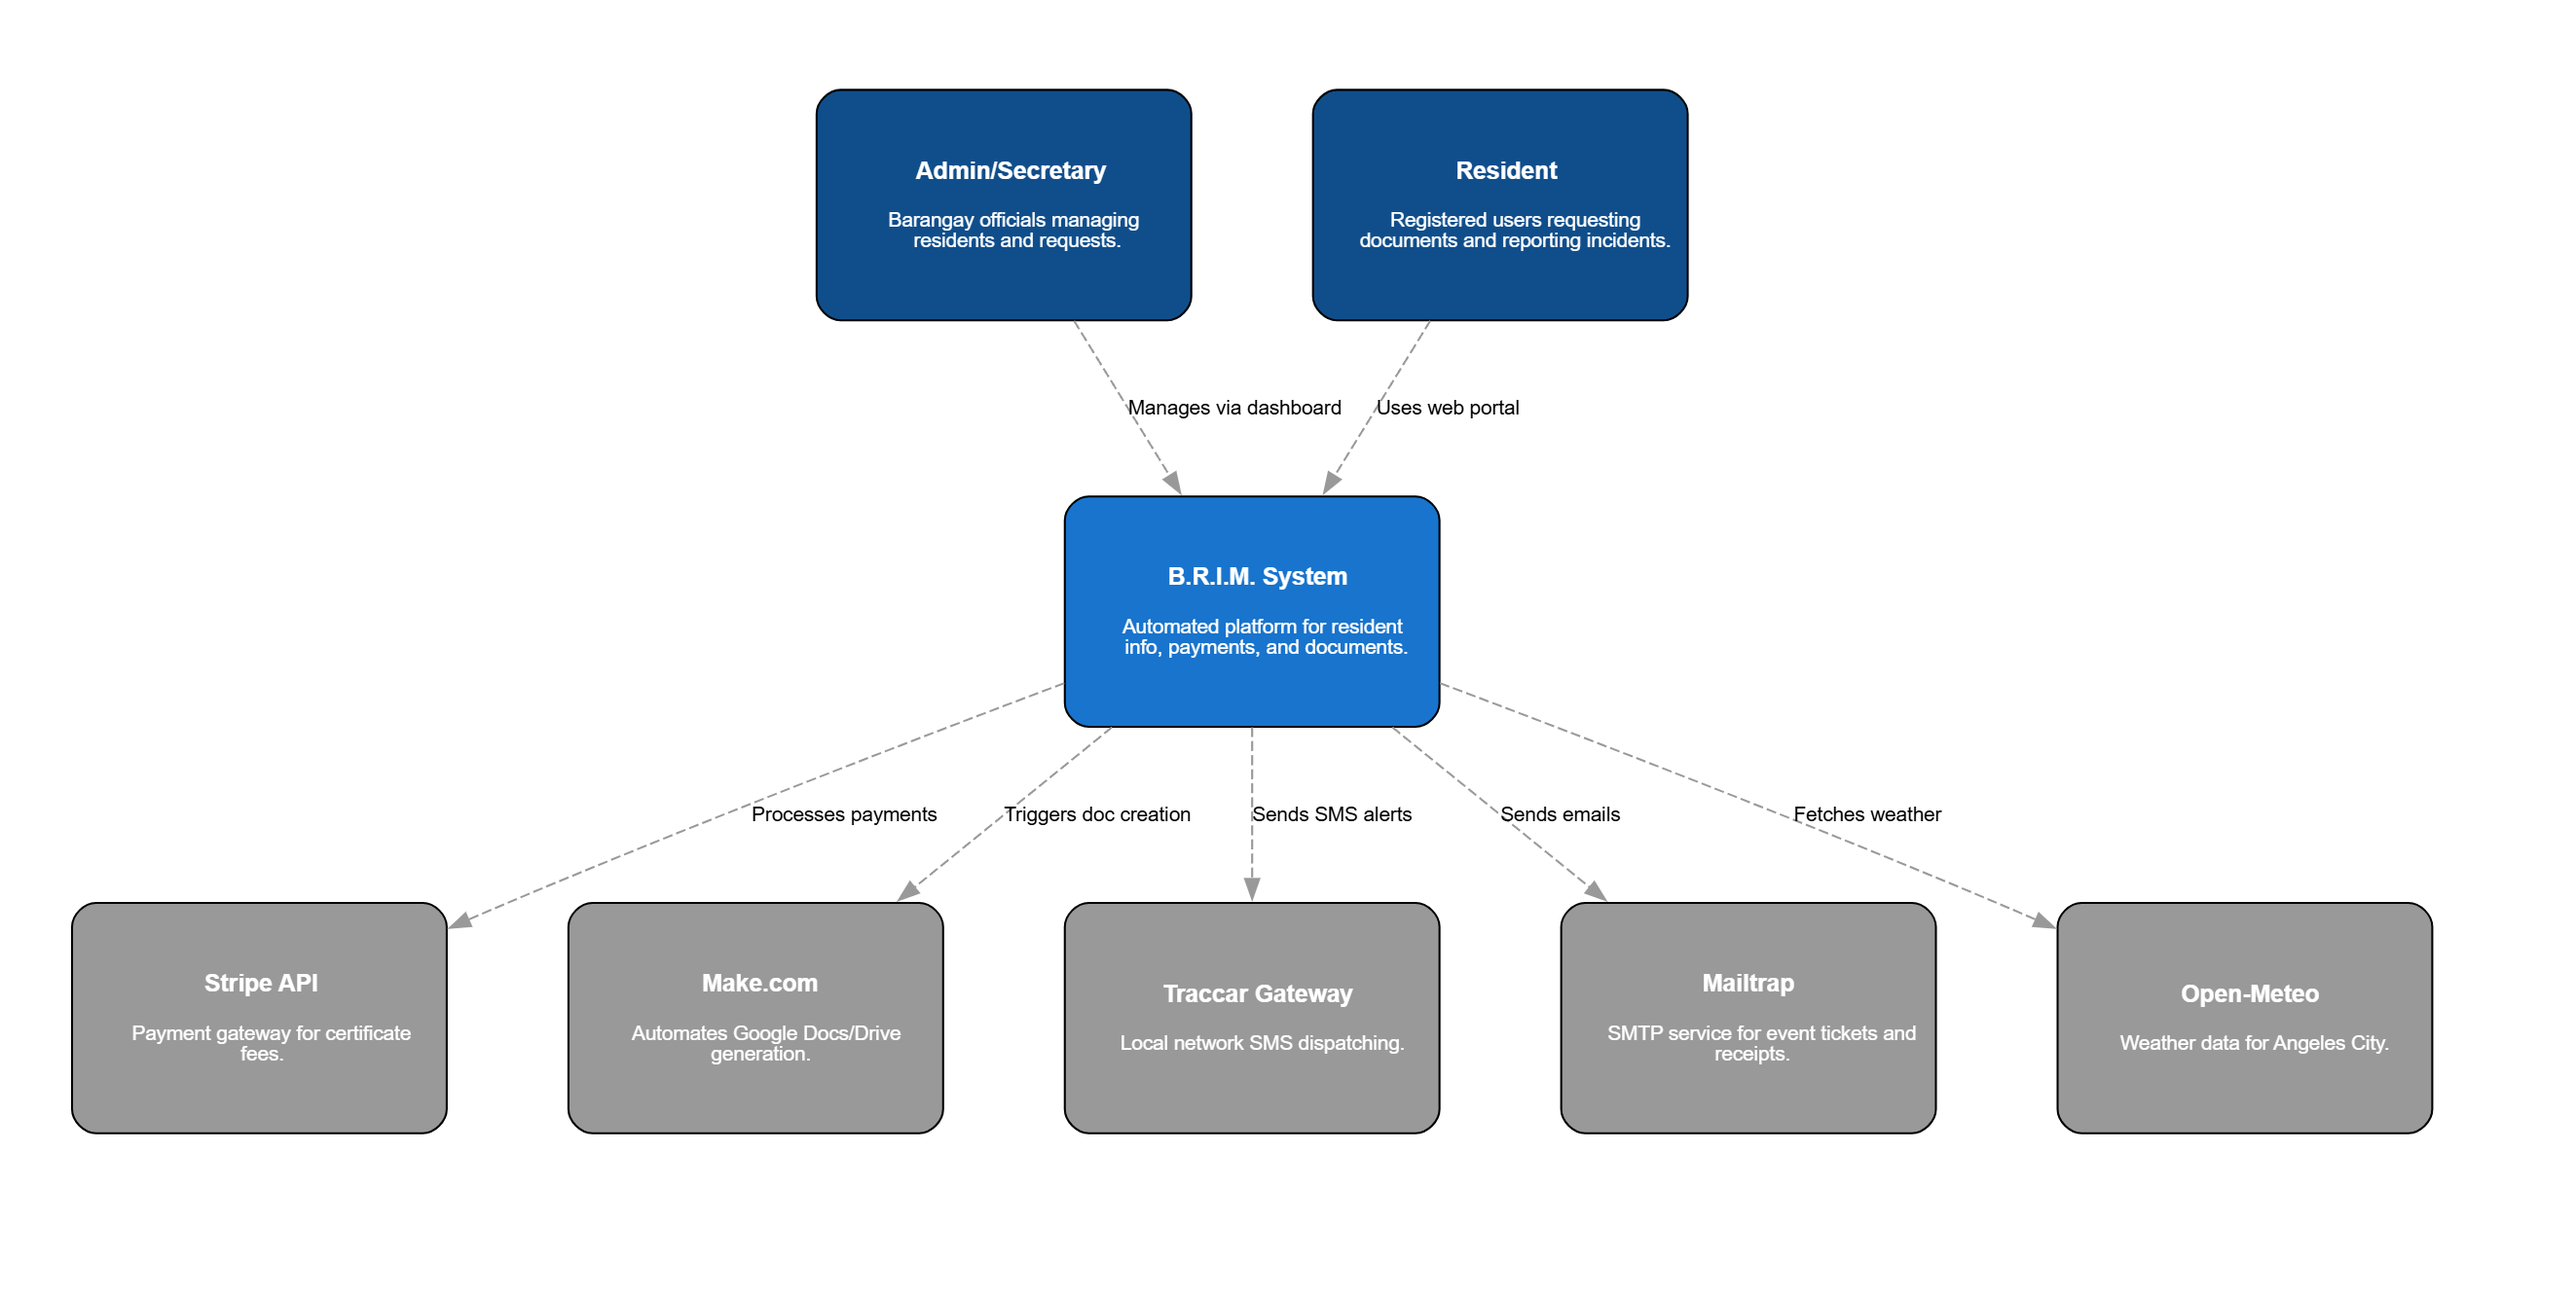
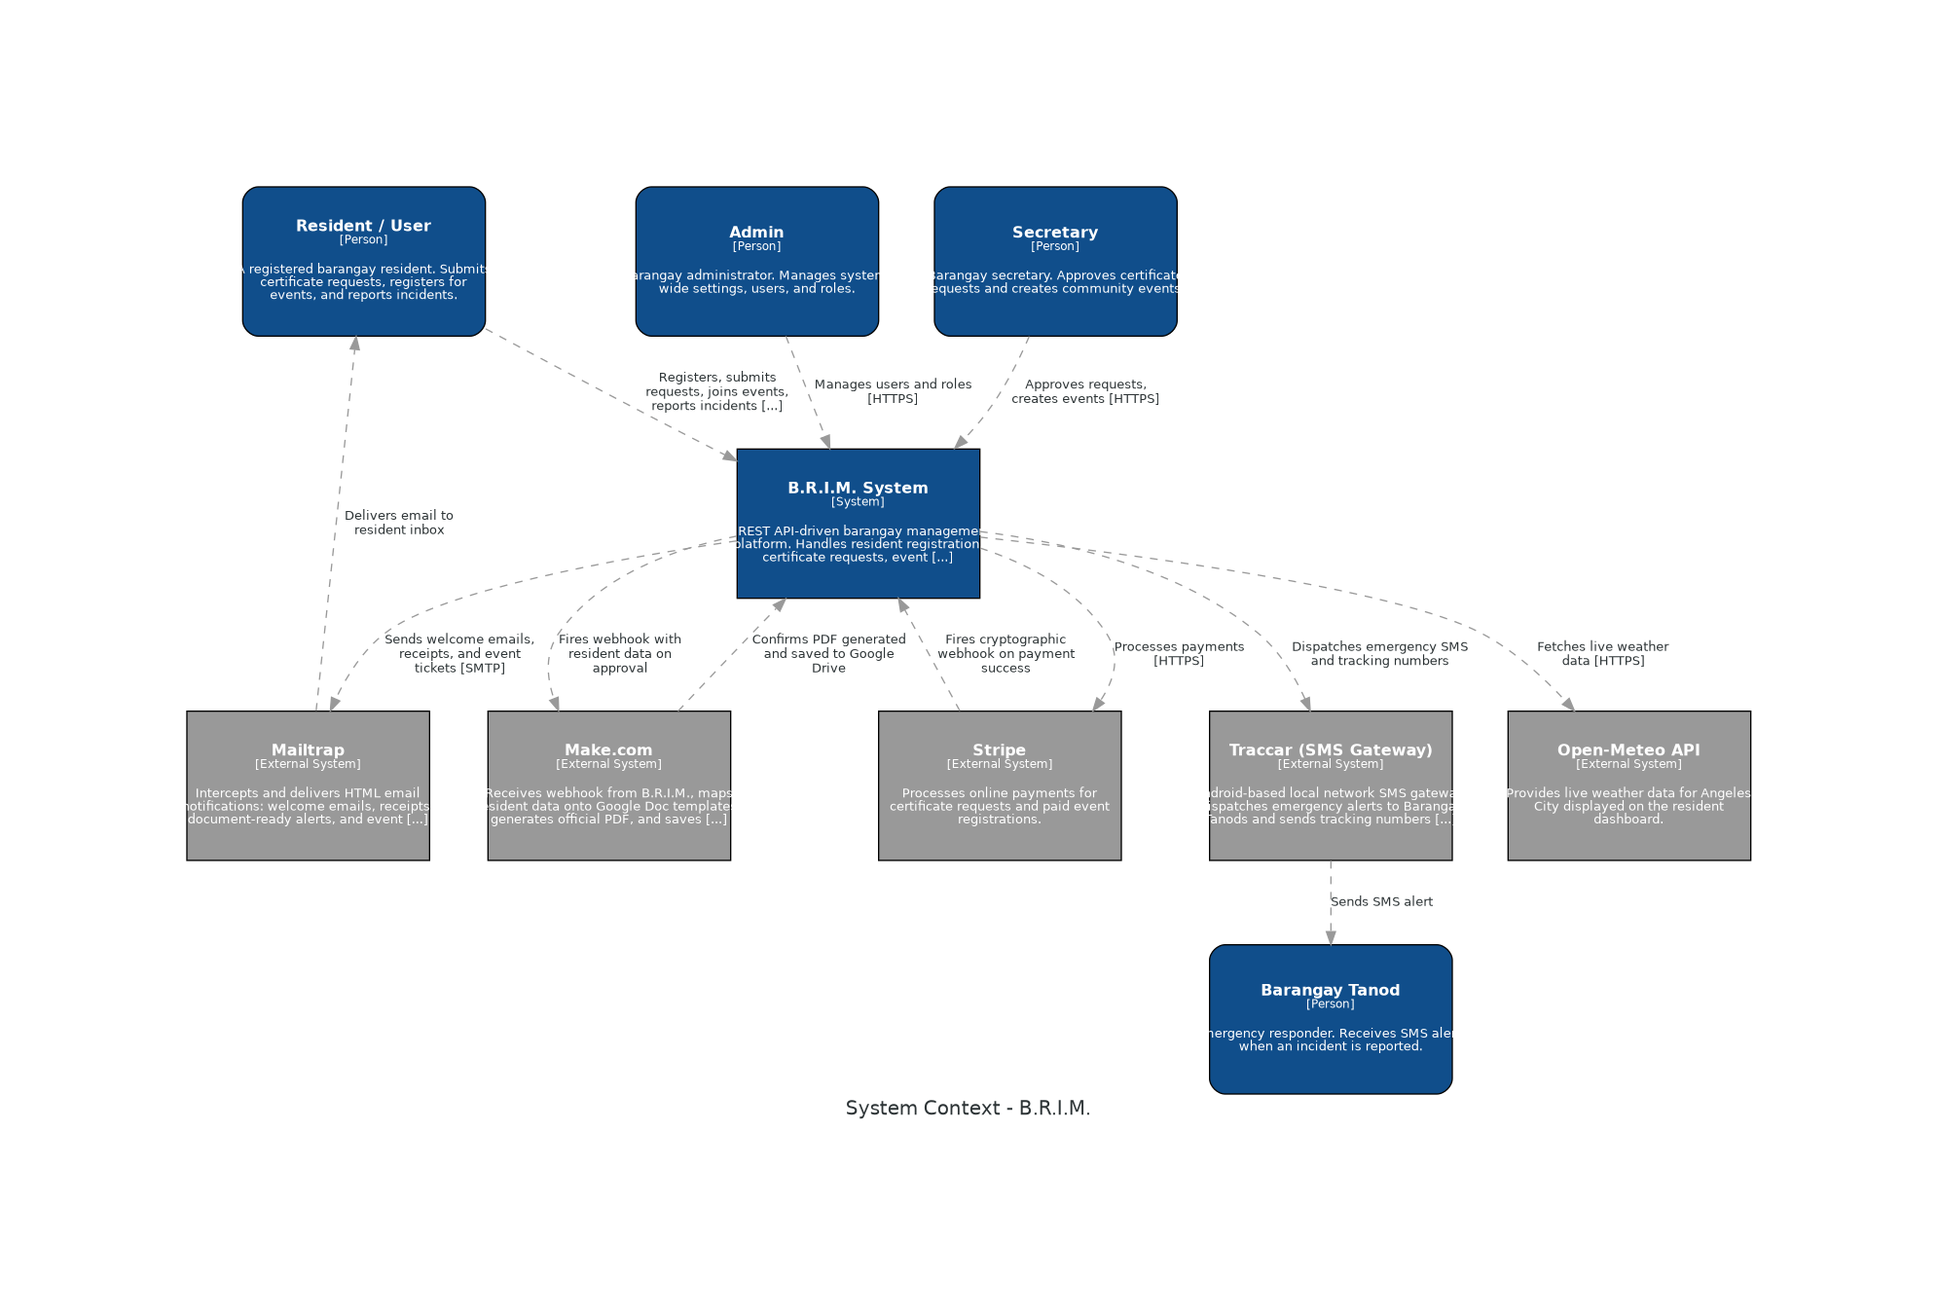
Last

diff --git a/updates.html b/updates.html
@@ -1,5 +1,6 @@
 <!DOCTYPE html>
 <html lang="en">
+
 <head>
   <meta charset="UTF-8">
   <meta name="viewport" content="width=device-width, initial-scale=1.0">
@@ -7,6 +8,7 @@
   <link rel="stylesheet" href="https://cdn.jsdelivr.net/npm/bulma@0.9.4/css/bulma.min.css">
   <link rel="stylesheet" href="css/styles.css">
 </head>
+
 <body>
 
   <nav class="glass-nav">
@@ -32,49 +34,135 @@
 
   <section id="updates-feed" class="section pt-5 pb-6">
     <div class="container" style="max-width: 1200px;">
-      
+      <!-- Frontend Update Container -->
       <div class="glass-feature mb-6" style="padding: 0; overflow: hidden;">
         <div class="columns is-gapless is-vcentered m-0">
-          
           <div class="column is-6">
-            <figure class="image is-4by3" style="background: #ffffff;">
-              <img src="assets/BRIM-usecase.png" alt="System Architecture and Development" style="object-fit: contain; height: 100%; padding: 2rem;">
+            <figure class="image is-4by3" style="background: #1e1e2d;">
+              <!-- Add Frontend Screenshot Here -->
+              <img src="assets/front.png" alt="Frontend Update" style="object-fit: cover; height: 100%;">
             </figure>
           </div>
-          
           <div class="column is-6">
             <div class="p-6">
               <div class="is-flex is-align-items-center mb-4" style="gap: 10px; flex-wrap: wrap;">
-                <span class="has-text-grey-light is-size-7">April 26 - 27, 2026</span>
+                <span class="has-text-grey-light is-size-7">April 27 - 28, 2026</span>
+                <span class="tag is-info is-light is-rounded">Frontend</span>
+              </div>
+              <h2 class="title is-3 has-text-white mb-4">Frontend Implementation Update</h2>
+              <p class="has-text-grey-light is-size-6 mb-5" style="line-height: 1.6;">
+                Focused on developing a modern, responsive user interface for the Resident Portal. We implemented a
+                dynamic dashboard, refined navigation elements, and built functional, paginated pages for module
+                features like certificate requests and incident reporting.
+              </p>
+            </div>
+          </div>
+        </div>
+      </div>
+
+      <!-- Backend Update Container -->
+      <div class="glass-feature mb-6" style="padding: 0; overflow: hidden;">
+        <div class="columns is-gapless is-vcentered m-0">
+          <div class="column is-6">
+            <figure class="image is-4by3" style="background: #1e1e2d;">
+              <!-- Add Backend Screenshot Here -->
+              <img src="assets/back.png" alt="Backend Update" style="object-fit: cover; height: 100%;">
+            </figure>
+          </div>
+          <div class="column is-6">
+            <div class="p-6">
+              <div class="is-flex is-align-items-center mb-4" style="gap: 10px; flex-wrap: wrap;">
+                <span class="has-text-grey-light is-size-7">April 26, 2026</span>
+                <span class="tag is-info is-light is-rounded">Backend</span>
+              </div>
+              <h2 class="title is-3 has-text-white mb-4">Backend Architecture & API Update</h2>
+              <p class="has-text-grey-light is-size-6 mb-5" style="line-height: 1.6;">
+                Finalized the backend logic and routing for the Resident Portal. Key updates include setting up
+                controllers and database management operations for incident reports, certificate requests, and event
+                tracking to ensure smooth data integration with the frontend.
+              </p>
+            </div>
+          </div>
+        </div>
+      </div>
+
+      <!-- Core System Build Container -->
+      <div class="glass-feature mb-6" style="padding: 0; overflow: hidden;">
+        <div class="columns is-gapless is-vcentered m-0">
+
+          <div class="column is-6">
+            <figure class="image is-4by3" style="background: #ffffff;">
+              <img src="assets/BRIM-usecase.png" alt="System Architecture and Development"
+                style="object-fit: contain; height: 100%; padding: 2rem;">
+            </figure>
+          </div>
+
+          <div class="column is-6">
+            <div class="p-6">
+              <div class="is-flex is-align-items-center mb-4" style="gap: 10px; flex-wrap: wrap;">
+                <span class="has-text-grey-light is-size-7">April 25, 2026</span>
                 <span class="tag is-warning is-light is-rounded">In Progress</span>
                 <span class="tag is-info is-light is-rounded">Frontend & Backend</span>
               </div>
-              
+
               <h2 class="title is-3 has-text-white mb-4">Core System Build & Architecture Documentation</h2>
               <p class="has-text-grey-light is-size-6 mb-5" style="line-height: 1.6;">
-                Focused heavily on building out the admin and resident portal's frontend interfaces and integrating them with the backend database. We also finalized and published our comprehensive system documentation to the project site, which now includes the complete Database Schema, Entity Relationship Diagram (ERD), Use Case diagrams, Data Flow Diagram (DFD), and C4 Architectural models. Additionally, our Systems Integration & Architecture explainer video was embedded for the presentation.
+                Focused heavily on building out the admin and resident portal's frontend interfaces and integrating them
+                with the backend database. We also finalized and published our comprehensive system documentation to the
+                project site, which now includes the complete Database Schema, Entity Relationship Diagram (ERD), Use
+                Case diagrams, Data Flow Diagram (DFD), and C4 Architectural models. Additionally, our Systems
+                Integration & Architecture explainer video was embedded for the presentation.
               </p>
-              
-              <div class="p-4" style="background: rgba(238, 223, 122, 0.05); border-left: 3px solid #EEDF7A; border-radius: 4px;">
+
+              <div class="p-4"
+                style="background: rgba(238, 223, 122, 0.05); border-left: 3px solid #EEDF7A; border-radius: 4px;">
                 <p class="is-size-6 has-text-white">
-                  <strong class="has-text-brand">Next Step:</strong> Finalize the remaining C4 components before moving into end-to-end system testing.
+                  <strong class="has-text-brand">Next Step:</strong> Finalize the remaining C4 components before moving
+                  into end-to-end system testing.
                 </p>
               </div>
             </div>
           </div>
-          
+
+        </div>
+      </div>
+
+      <!-- Diagrams Update Container -->
+      <div class="glass-feature mb-6" style="padding: 0; overflow: hidden;">
+        <div class="columns is-gapless is-vcentered m-0">
+          <div class="column is-6">
+            <figure class="image is-4by3" style="background: #1e1e2d;">
+              <!-- Add Diagram Image Here -->
+              <img src="assets/BRIM_ERD.png" alt="System Diagrams Update" style="object-fit: cover; height: 100%;">
+            </figure>
+          </div>
+          <div class="column is-6">
+            <div class="p-6">
+              <div class="is-flex is-align-items-center mb-4" style="gap: 10px; flex-wrap: wrap;">
+                <span class="has-text-grey-light is-size-7">April 24, 2026</span>
+                <span class="tag is-info is-light is-rounded">System Design</span>
+              </div>
+              <h2 class="title is-3 has-text-white mb-4">System Diagrams Update</h2>
+              <p class="has-text-grey-light is-size-6 mb-5" style="line-height: 1.6;">
+                Completed and structured the core system diagrams mapping out the complete architecture. This
+                establishes a clear visual guide for data flows, entity relationships, and operational boundaries across
+                all system modules.
+              </p>
+            </div>
+          </div>
         </div>
       </div>
 
       <div class="glass-feature mb-6" style="padding: 0; overflow: hidden;">
         <div class="columns is-gapless is-vcentered m-0">
-          
+
           <div class="column is-6">
             <figure class="image is-4by3">
-              <img src="assets/Novus BPMN Diagram.png" alt="BPMN Diagram Placeholder" style="object-fit: cover; height: 100%;">
+              <img src="assets/Novus BPMN Diagram.png" alt="BPMN Diagram Placeholder"
+                style="object-fit: cover; height: 100%;">
             </figure>
           </div>
-          
+
           <div class="column is-6">
             <div class="p-6">
               <div class="is-flex is-align-items-center mb-4" style="gap: 10px; flex-wrap: wrap;">
@@ -82,25 +170,30 @@
                 <span class="tag is-success is-light is-rounded">Completed</span>
                 <span class="tag is-info is-light is-rounded">System Design</span>
               </div>
-              
+
               <h2 class="title is-3 has-text-white mb-4">B.R.I.M.S. Core BPMN Diagram</h2>
               <p class="has-text-grey-light is-size-6 mb-5" style="line-height: 1.6;">
-                Successfully mapped out the end-to-end resident registration and service request workflow. This diagram illustrates the data flow between the resident portal, Zapier automations, the central database, and the barangay staff verification dashboard.
+                Successfully mapped out the end-to-end resident registration and service request workflow. This diagram
+                illustrates the data flow between the resident portal, Zapier automations, the central database, and the
+                barangay staff verification dashboard.
               </p>
-              
-              <div class="p-4" style="background: rgba(238, 223, 122, 0.05); border-left: 3px solid #EEDF7A; border-radius: 4px;">
+
+              <div class="p-4"
+                style="background: rgba(238, 223, 122, 0.05); border-left: 3px solid #EEDF7A; border-radius: 4px;">
                 <p class="is-size-6 has-text-white">
-                  <strong class="has-text-brand">Next Step:</strong> With the process flow approved, the team will begin setting up the repository, ERD, and database schema.
+                  <strong class="has-text-brand">Next Step:</strong> With the process flow approved, the team will begin
+                  setting up the repository, ERD, and database schema.
                 </p>
               </div>
             </div>
           </div>
-          
+
         </div>
       </div>
-      
+
     </div>
   </section>
 
 </body>
+
 </html>
